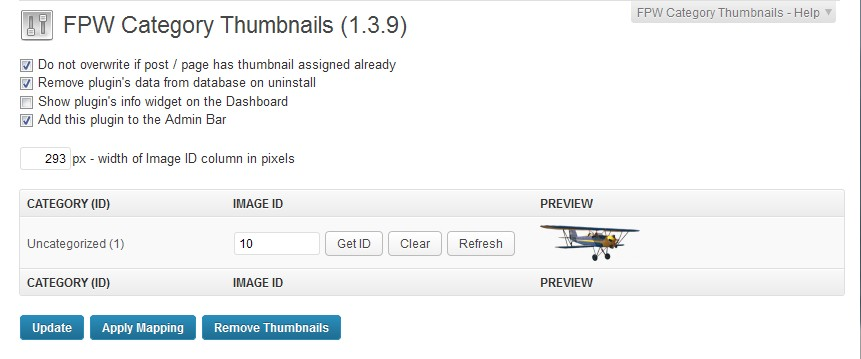
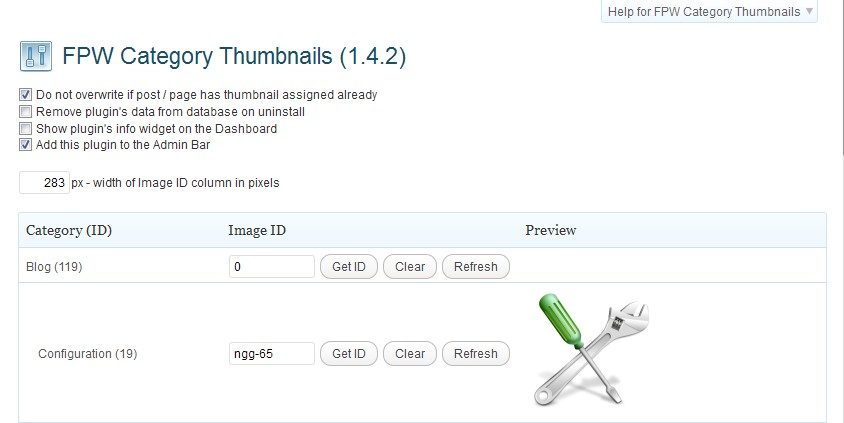
New version 1.4.2
git-svn-id: https://plugins.svn.wordpress.org/fpw-category-thumbnails/trunk@483763 b8457f37-d9ea-0310-8a92-e5e31aec5664

diff --git a/fpw-category-thumbnails.php b/fpw-category-thumbnails.php
@@ -3,7 +3,7 @@
 Plugin Name: FPW Category Thumbnails
 Description: Sets post/page thumbnail based on category.
 Plugin URI: http://fw2s.com/2010/10/14/fpw-category-thumbnails-plugin/
-Version: 1.4.1
+Version: 1.4.2
 Author: Frank P. Walentynowicz
 Author URI: http://fw2s.com/
 
@@ -42,7 +42,7 @@ class fpwCategoryThumbnails {
 		$this->pluginUrl = WP_PLUGIN_URL . '/fpw-category-thumbnails';
 		
 		//	set version
-		$this->pluginVersion = '1.4.1';
+		$this->pluginVersion = '1.4.2';
 		
 		//	actions and filters
 		add_action( 'init', array( &$this, 'init' ) );
@@ -147,7 +147,7 @@ class fpwCategoryThumbnails {
 					'<blockquote><a href="http://fw2s.com/2010/10/14/fpw-category-thumbnails-plugin/" target="_blank">' . __( 'Plugin\' site', 'fpw-fct' ) . '</a></blockquote>' . 
 					'<p style="font-size: larger">' . __( 'Support', 'fpw-fct' ) . '</p>' . 
 					'<blockquote><a href="http://wordpress.org/tags/fpw-category-thumbnails?forum_id=10" target="_blank">WordPress</a><br />' . 
-					'<a href="http://fw2s.com/forums/topic/fpw-category-thumbnail-plugin-support/" target="_blank">FWSS</a></blockquote>'; 
+					'<a href="http://fw2s.com/support/fpw-category-thumbnails-support/" target="_blank">FWSS</a></blockquote>'; 
 			
 		$current_screen->set_help_sidebar( $sidebar );
 			
